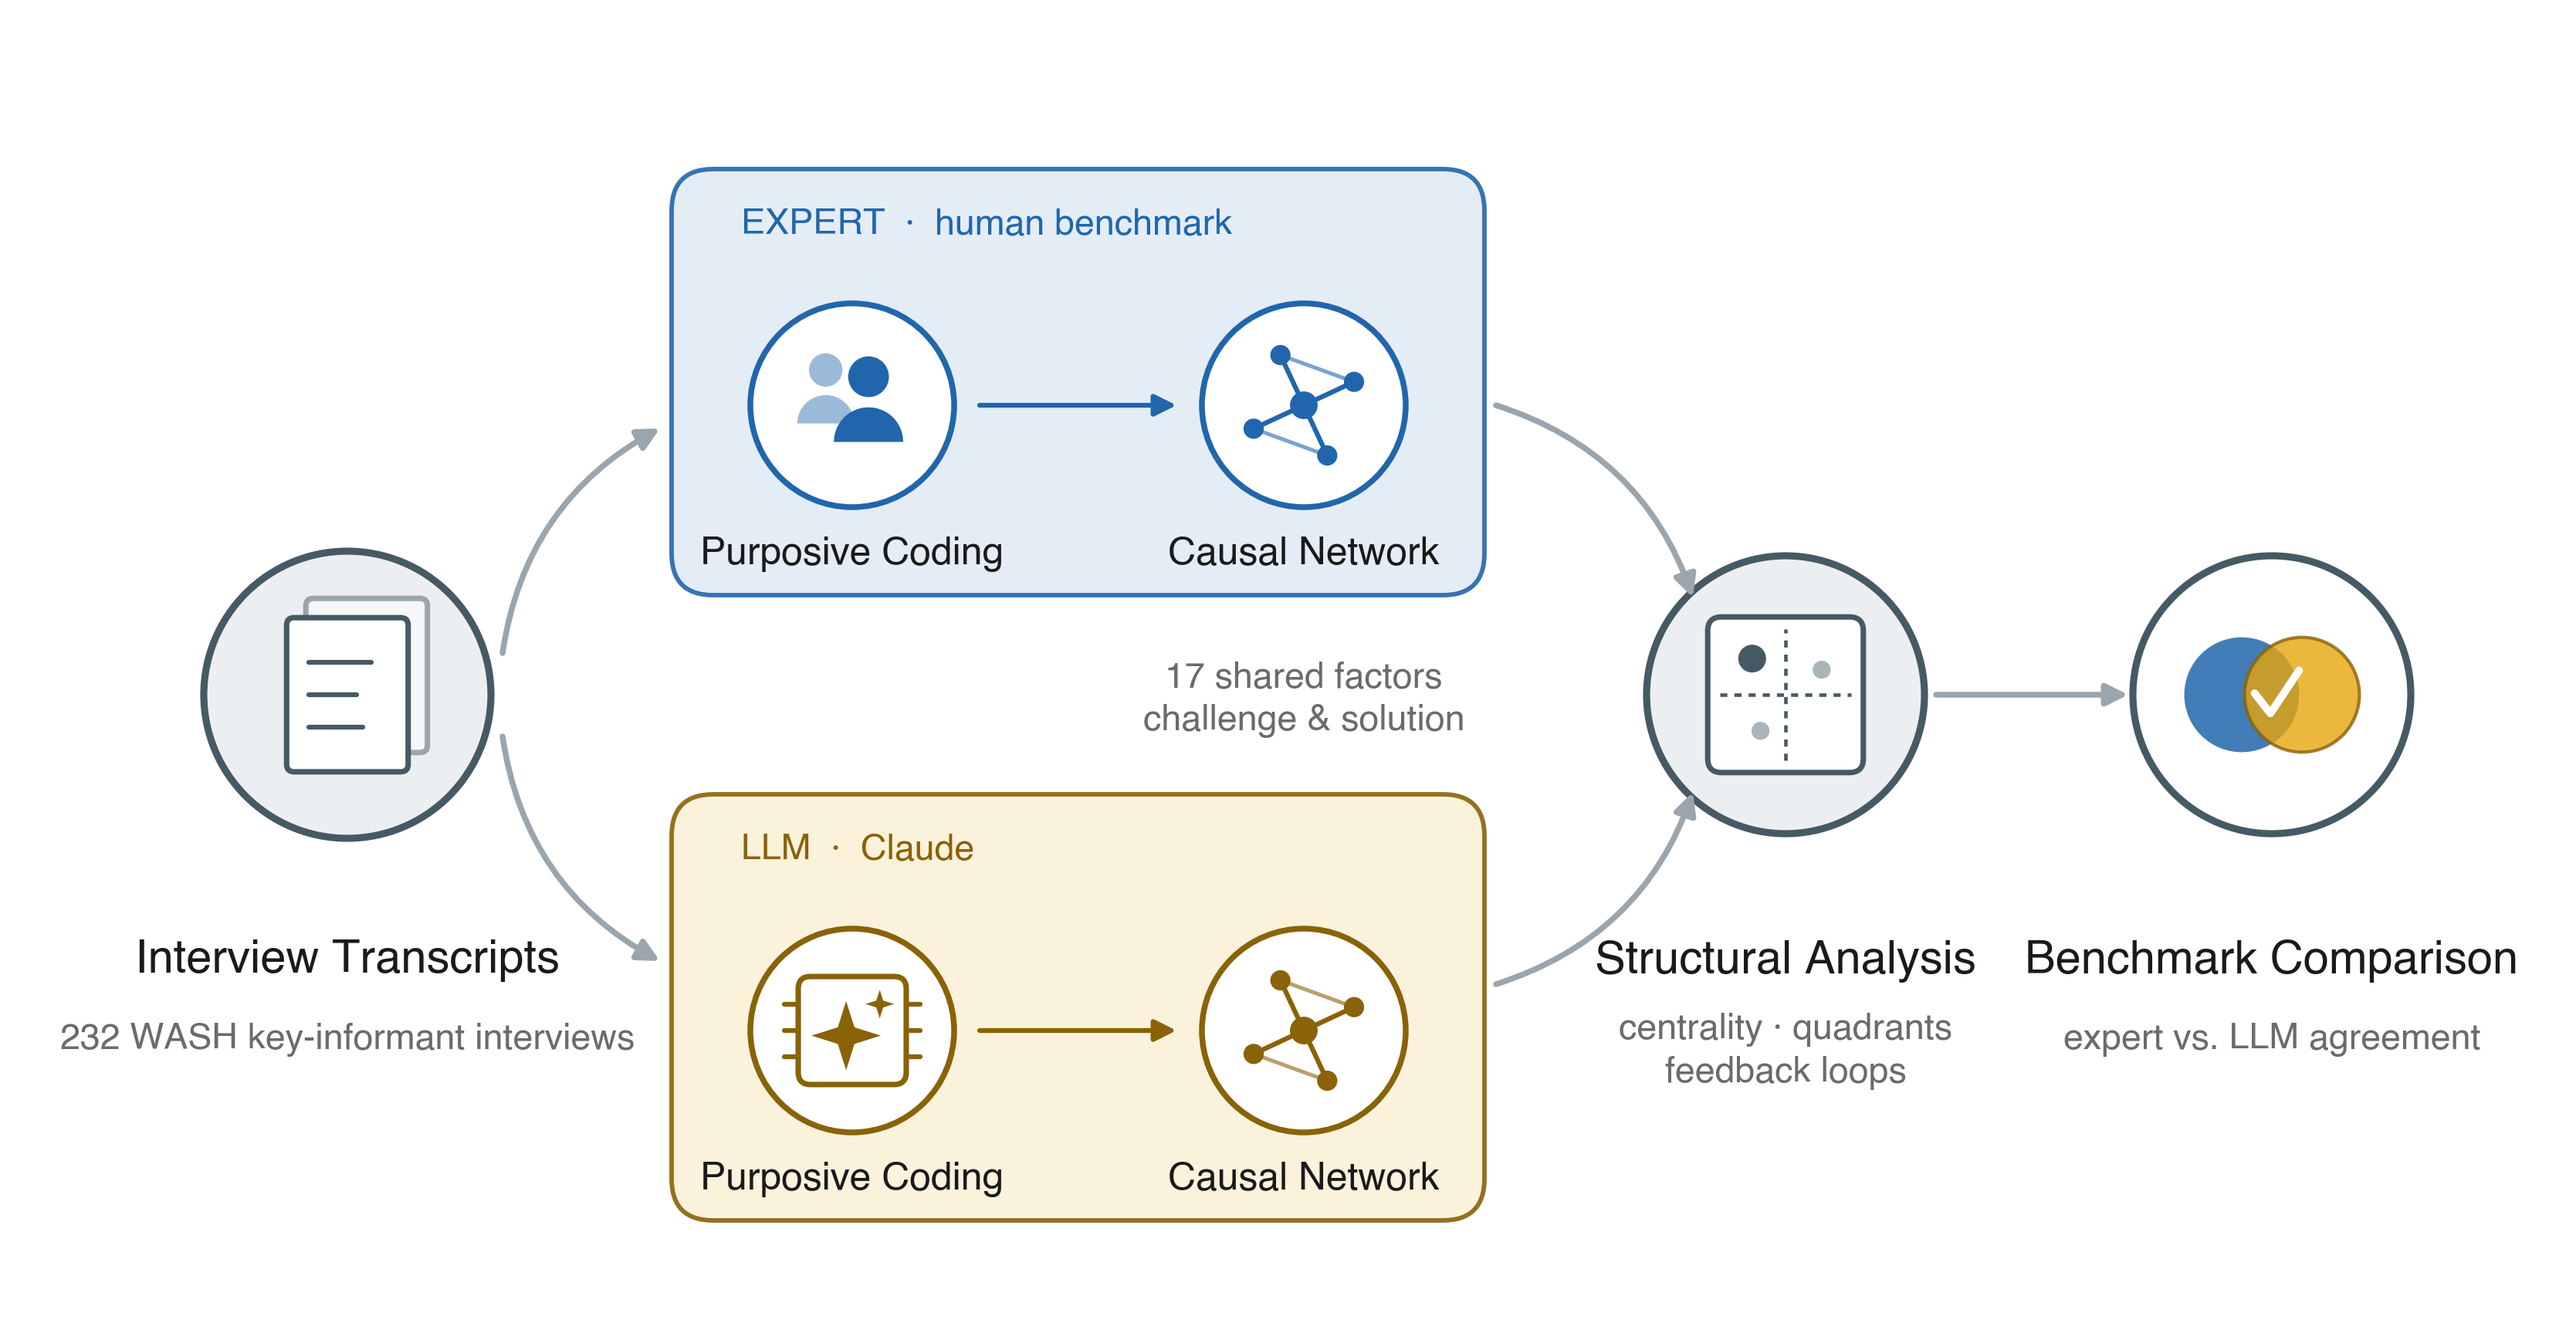
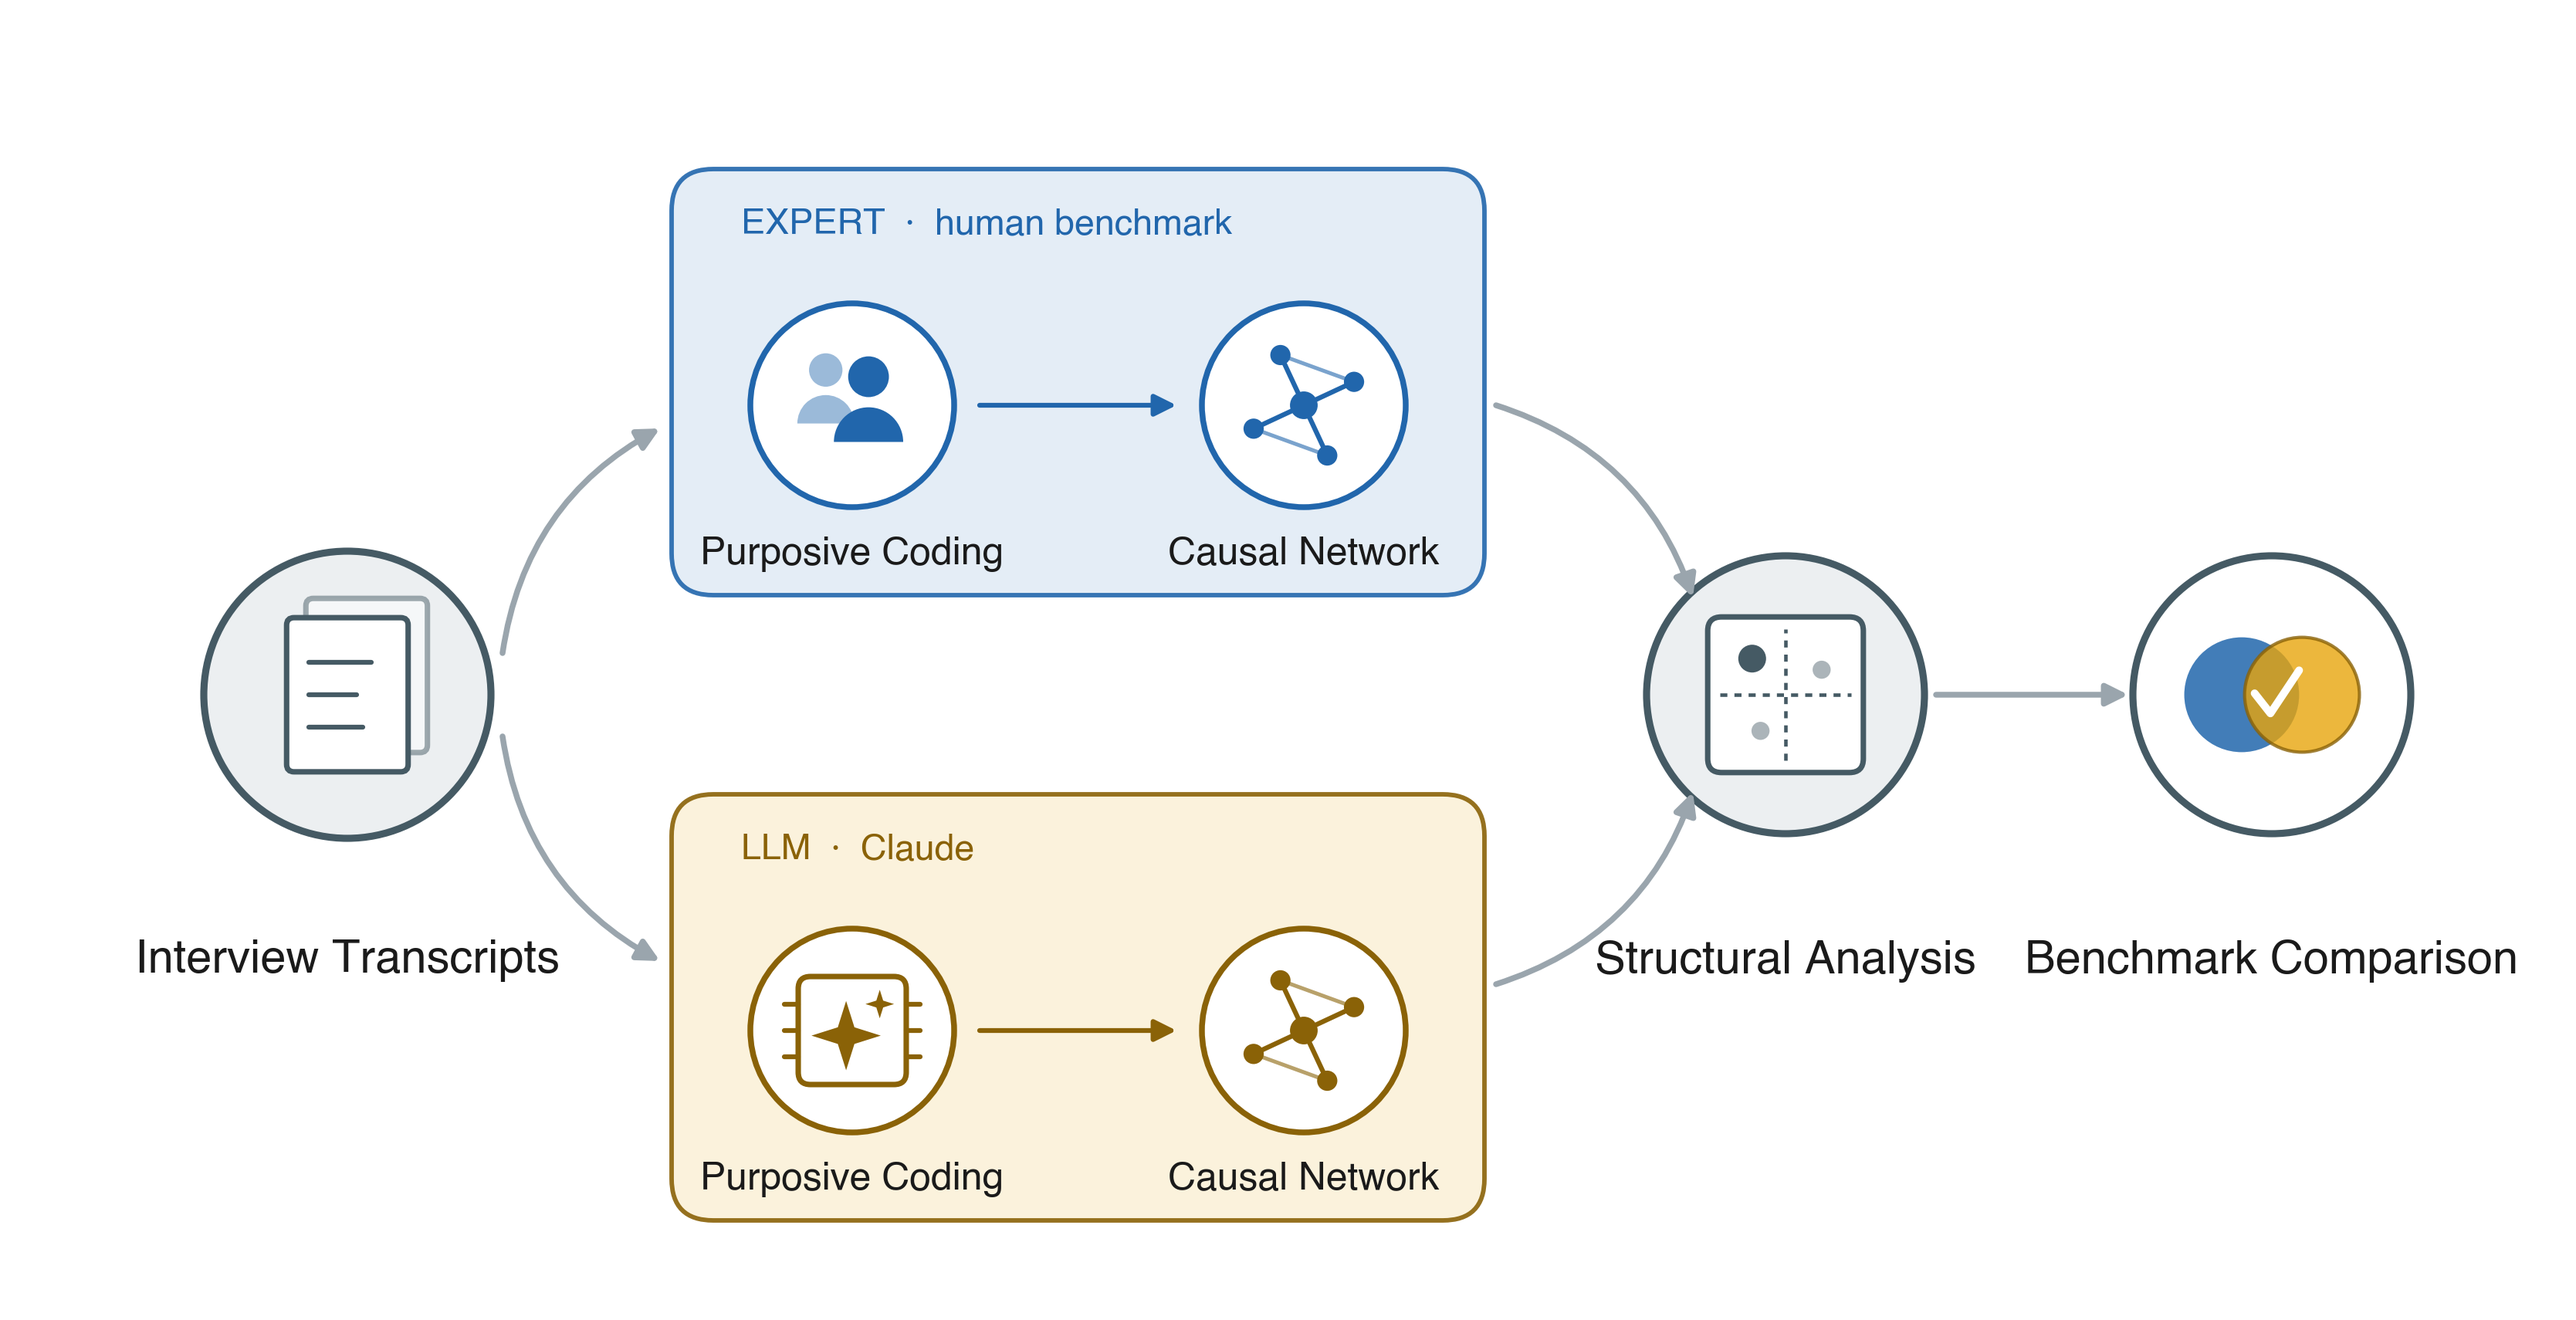
Figure 1: drop the four methods callouts (per Jeff, 2026-09-17)
Removes "232 WASH key-informant interviews", "17 shared factors / challenge &
solution", "centrality / quadrants / feedback loops" and "expert vs. LLM
agreement" from the v2 final pictorial. The diagram carries the flow only;
the methods live in Section 2 of the manuscript. No other element moved --
title_sub() gained an optional show_sub flag, so the other pictorial variants
render exactly as before.

Pure drawing script, so no release path adaptation applies.

diff --git a/figures/make_figure1_pictorial_variants.py b/figures/make_figure1_pictorial_variants.py
@@ -74,12 +74,13 @@ def badge(ax, cx, cy, r, ring, tint, lw=2.2):
                         linewidth=lw, zorder=3))
 
 def title_sub(ax, x, y, key, ts=12, ss=9, ha="center", gap=0.30,
-              color=INK, sub_color=MUTED):
+              color=INK, sub_color=MUTED, show_sub=True):
     t, s = STEPS[key]
     ax.text(x, y, t, fontsize=ts, fontweight="bold", color=color,
             ha=ha, va="center", zorder=6)
-    ax.text(x, y - gap, s, fontsize=ss, color=sub_color,
-            ha=ha, va="center", zorder=6)
+    if show_sub:
+        ax.text(x, y - gap, s, fontsize=ss, color=sub_color,
+                ha=ha, va="center", zorder=6)
 
 # ----------------------------------------------------------------- icons ----
 # Each draws centered on (cx, cy); s is a scale in inches; c is glyph color.
@@ -498,7 +499,7 @@ def build_v2_final():
     badge(ax, 1.25, mid, 0.62, NEUT, NEUT_TINT)
     icon_docs(ax, 1.25, mid, 0.64, NEUT)
     title_sub(ax, 1.25, 2.05, "transcripts", ts=11 * F, ss=8.6 * F,
-              gap=0.34)
+              gap=0.34, show_sub=False)
 
     bx0, cxc, cxn = 2.65, 3.43, 5.38   # lane box left, coding x, network x
     bx1 = cxn + 0.78                   # lane box right
@@ -528,25 +529,16 @@ def build_v2_final():
         arrow(ax, (cxc + 0.55, cy - 0.10), (cxn - 0.55, cy - 0.10),
               color=color, lw=1.5)
 
-    # note sits in the gap between the two Causal Network icons
-    ax.text(cxn, 3.18, "17 shared factors\nchallenge & solution",
-            fontsize=8.6 * F, color=MUTED, ha="center", va="center",
-            linespacing=1.35, zorder=6)
-
     xa, xc = bx1 + 1.30, bx1 + 3.40
     badge(ax, xa, mid, 0.60, NEUT, NEUT_TINT)
     icon_quadrant(ax, xa, mid, 0.60, NEUT)
     ax.text(xa, 2.05, STEPS["analysis"][0], fontsize=11 * F,
             fontweight="bold", color=INK, ha="center", va="center",
             zorder=6)
-    ax.text(xa, 1.66, "centrality · quadrants\nfeedback loops",
-            fontsize=8.6 * F, color=MUTED, ha="center", va="center",
-            linespacing=1.35, zorder=6)
-
     badge(ax, xc, mid, 0.60, NEUT, "white")
     icon_compare(ax, xc, mid, 0.62)
     title_sub(ax, xc, 2.05, "compare", ts=11 * F, ss=8.6 * F,
-              gap=0.34)
+              gap=0.34, show_sub=False)
 
     arrow(ax, (1.92, mid + 0.18), (2.60, 4.35), rad=-0.25)
     arrow(ax, (1.92, mid - 0.18), (2.60, 2.05), rad=0.25)
